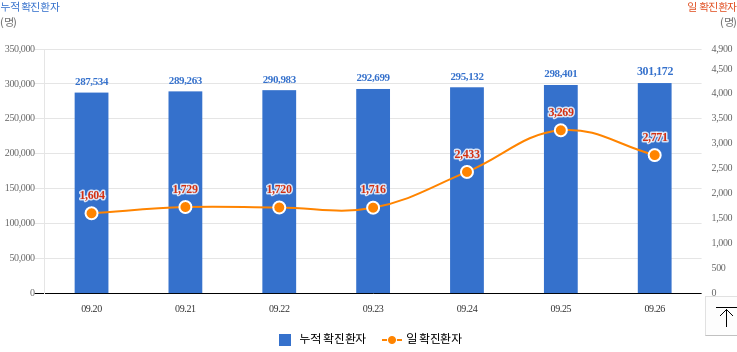
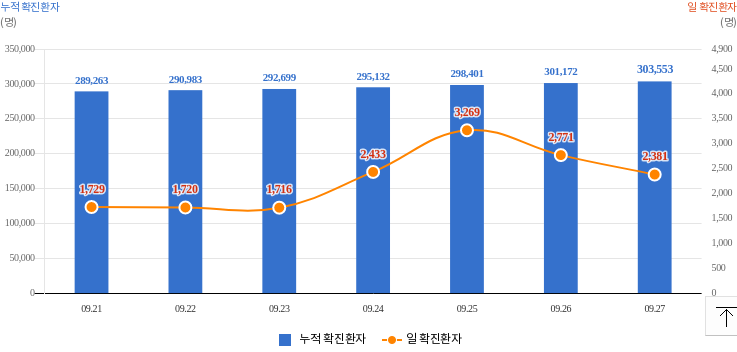
Run crawler and update current data

diff --git a/data.js b/data.js
@@ -7,7 +7,7 @@ var 검사중 = '1,211';
 var 검사결과 = '443,722';
 var 자가격리자 = '300';
 var 거리두기단계 = '사회적 거리두기  3단계 시행 : 2021.9.6.(월) 0시 ~ 10.3.(일) 24시';
-var 국내발생 = '2,735';
-var 해외발생 = '36';
-var 합계 = '2771';
+var 국내발생 = '2,356';
+var 해외발생 = '27';
+var 합계 = '2383';
 var data = [];
